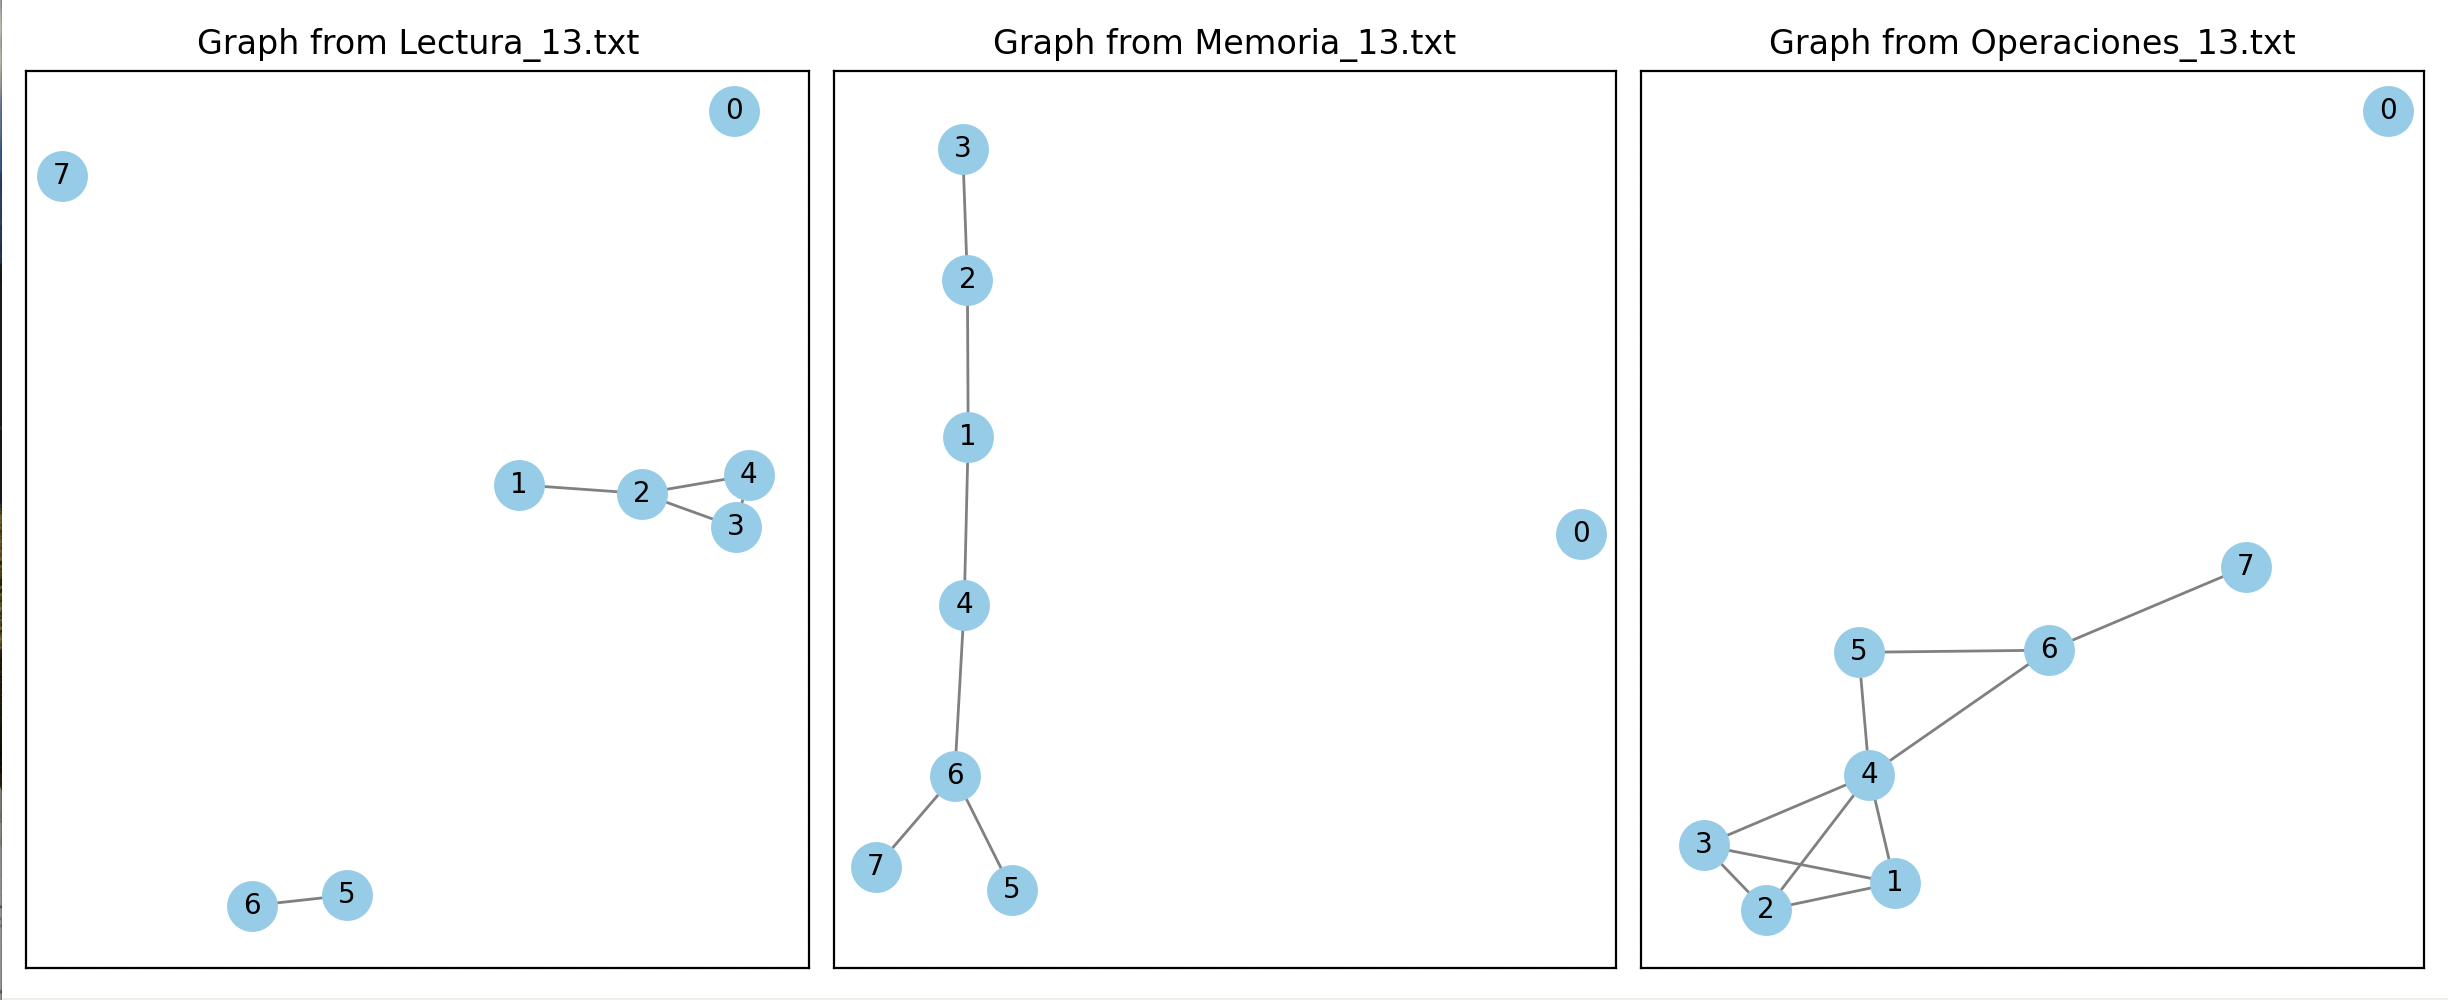
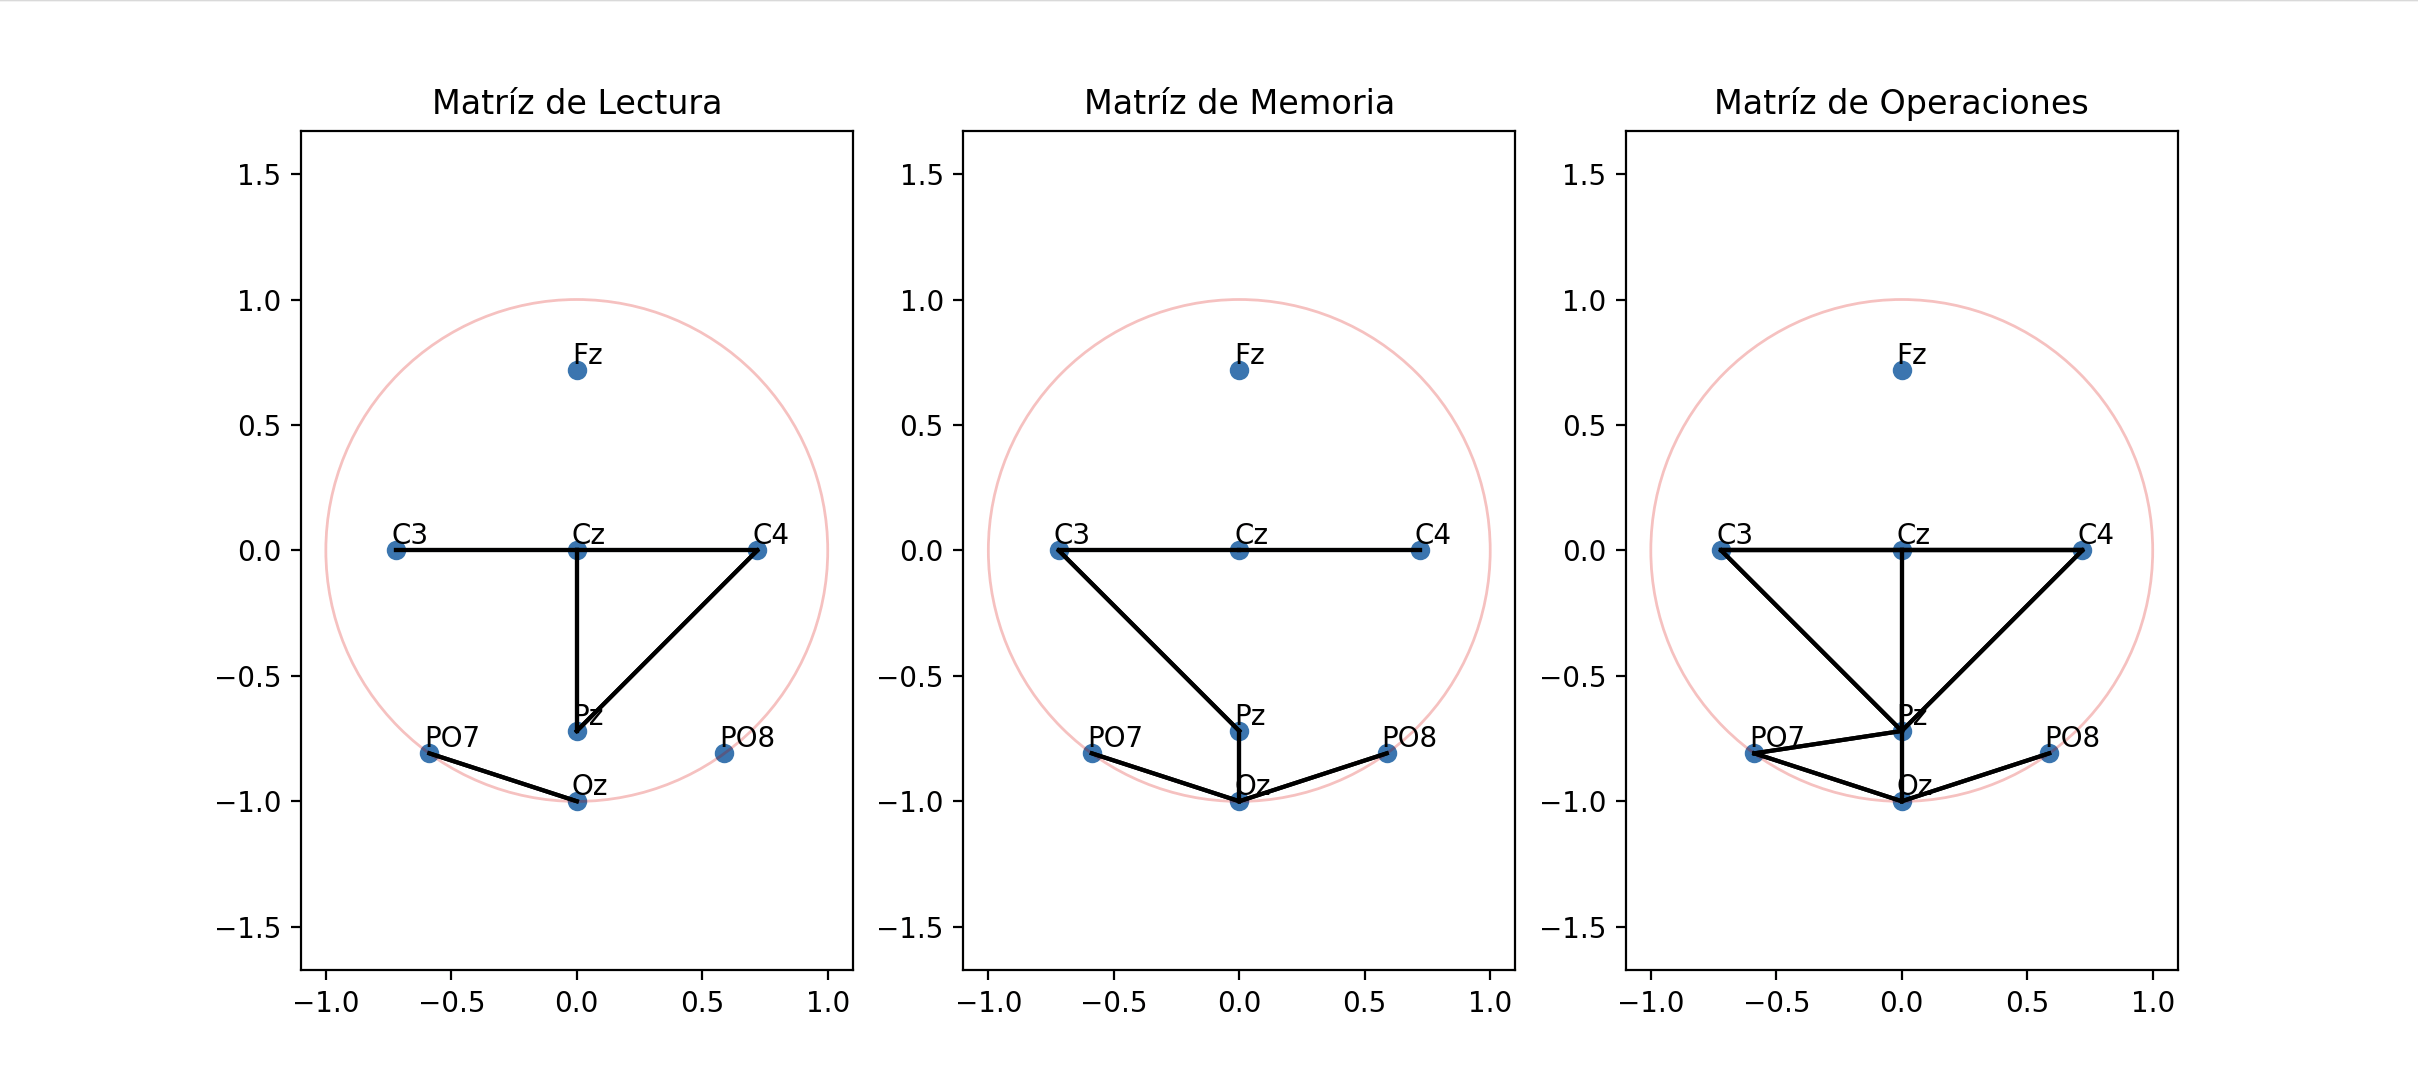
Fixed Plot Visualization

diff --git a/Etapa01.py b/Etapa01.py
@@ -1,41 +1,47 @@
 import numpy as np
-import networkx as nx
 import matplotlib.pyplot as plt
 
-def create_graph_from_matrix(matrix):
-    G = nx.Graph()
-    num_nodes = matrix.shape[0]
-    
-    G.add_nodes_from(range(num_nodes))
-    
-    for i in range(num_nodes):
-        for j in range(i + 1, num_nodes):
+# Load connectivity matrices from text files
+matrix1 = np.loadtxt('Lectura_13.txt', dtype=int)
+matrix2 = np.loadtxt('Memoria_13.txt', dtype=int)
+matrix3 = np.loadtxt('Operaciones_13.txt', dtype=int)
+
+# Assuming matrices represent connections between channels
+connectivity_matrices = [matrix1, matrix2, matrix3]
+
+channels = ['Fz', 'C3', 'Cz', 'C4', 'Pz', 'PO7', 'Oz', 'PO8']
+
+points3D = [[0, 0.71934, 0.694658], [-0.71934, 0, 0.694658], [0, 0, 1], [0.71934, 0, 0.694658],
+            [0, -0.71934, 0.694658], [-0.587427, -0.808524, -0.0348995], [0, -0.999391, -0.0348995],
+            [0.587427, -0.808524, -0.0348995]]
+points3D = np.array(points3D)
+
+r = np.sqrt(points3D[:, 0] ** 2 + points3D[:, 1] ** 2 + points3D[:, 2] ** 2)
+t = r / (r + points3D[:, 2])
+x = r * points3D[:, 0]
+y = r * points3D[:, 1]
+points2D = np.column_stack((x, y))
+
+names = ["Lectura", "Memoria", "Operaciones"]
+
+# Plot one subplot for each matrix
+for idx, matrix in enumerate(connectivity_matrices, start=1):
+    plt.subplot(1, len(connectivity_matrices), idx)
+
+    circle = plt.Circle((0, 0), 1, color='r', alpha=0.25, fill=False)
+    plt.scatter(points2D[:, 0], points2D[:, 1])
+    plt.gca().add_patch(circle)
+
+    for i in range(len(points2D)):
+        plt.text(points2D[i, 0] - 0.02, points2D[i, 1] + 0.025, channels[i])
+
+    # Plot connections based on the connectivity matrix
+    for i in range(len(channels)):
+        for j in range(len(channels)):
             if matrix[i, j] == 1:
-                G.add_edge(i, j)
-    
-    return G
+                plt.plot([points2D[i, 0], points2D[j, 0]], [points2D[i, 1], points2D[j, 1]], 'k-')
 
-file_names = ['Lectura_13.txt', 'Memoria_13.txt', 'Operaciones_13.txt']
+    plt.axis('equal')
+    plt.title(f'Matríz de {names[idx-1]}')
 
-num_plots = len(file_names)
-fig, axes = plt.subplots(1, num_plots, figsize=(15, 5))
-
-for i, file_name in enumerate(file_names):
-    try:
-        matrix = np.loadtxt(file_name)
-
-        G = create_graph_from_matrix(matrix)
-
-        pos = nx.spring_layout(G)
-
-        nx.draw_networkx_nodes(G, pos, ax=axes[i], node_color='skyblue', node_size=300)
-        nx.draw_networkx_edges(G, pos, ax=axes[i], edge_color='gray', width=1)
-        nx.draw_networkx_labels(G, pos, ax=axes[i], font_color='black', font_size=10)
-
-        axes[i].set_title(f'Graph from {file_name}')
-
-    except Exception as e:
-        print(f"An error occurred for {file_name}: {e}")
-
-plt.tight_layout()
 plt.show()
